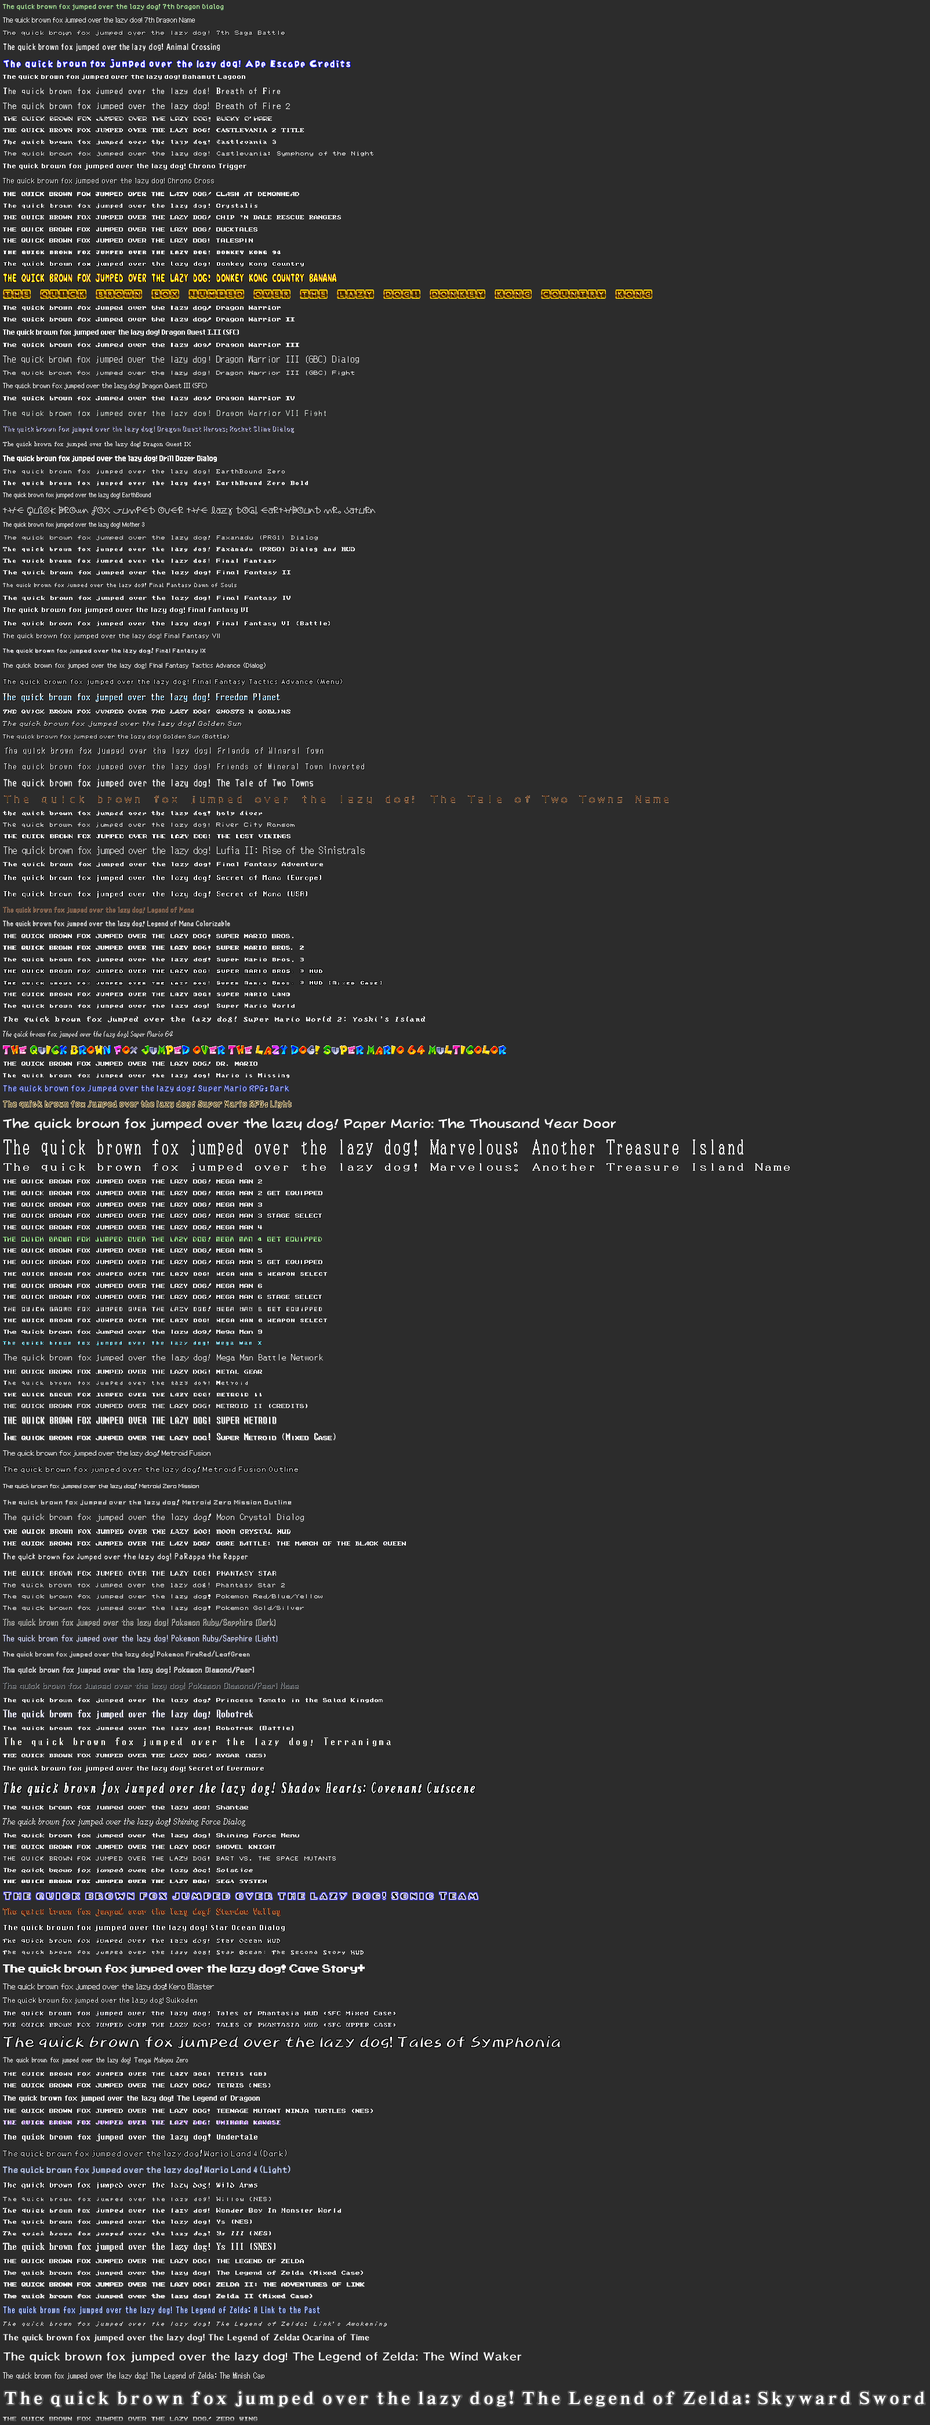
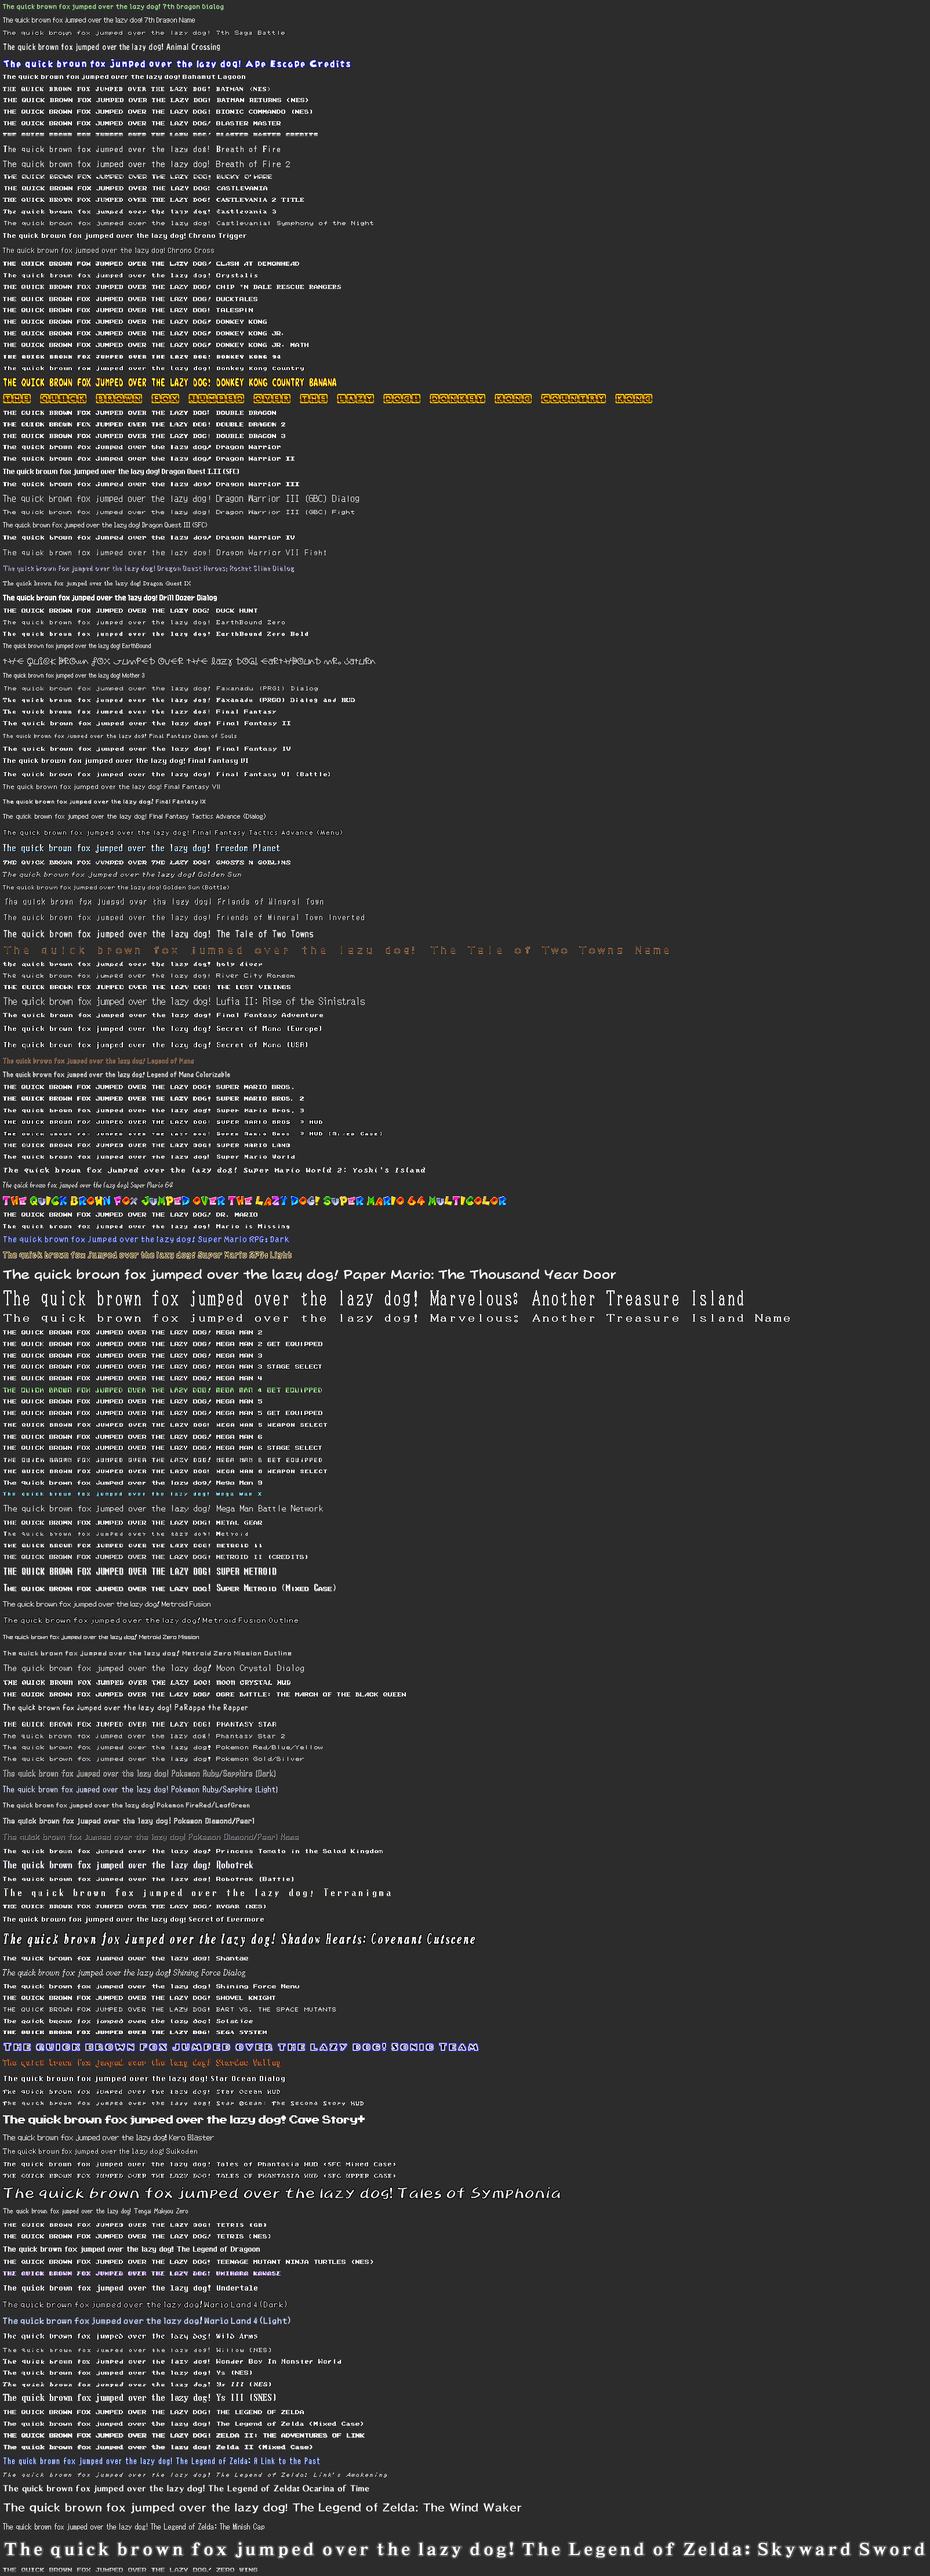
Added fonts for 13 NES games

diff --git a/README.md b/README.md
@@ -136,9 +136,15 @@ I'm sorry, I should have mentioned that you can use the Font/Border tab to selec
   - Ape Escape (Credits)
   - Bahamut Lagoon
   - Bart vs. the Space Mutants
+  - Batman (NES)
+  - Batman Returns (NES)
+  - Bionic Commando
+  - Blaster Master
+  - Blaster Master (Credits)
   - Breath of Fire
   - Breath of Fire II
   - Bucky O'Hare
+  - Castlevania
   - Castlevania II: Simon's Quest
   - Castlevania III: Dracula's Curse
   - Castlevania: Symphony of the Night
@@ -148,9 +154,16 @@ I'm sorry, I should have mentioned that you can use the Font/Border tab to selec
   - Chrono Trigger
   - Clash at Demonhead
   - Crystalis
+  - Duck Hunt
   - DuckTales (NES)
+  - Donkey Kong
+  - Donkey Kong Jr.
+  - Donkey Kong Jr. Math
   - Donkey Kong '94
   - Donkey Kong Country
+  - Double Dragon
+  - Double Dragon 2
+  - Double Dragon 3
   - Dr. Mario
   - Dragon Warrior
   - Dragon Warrior II
